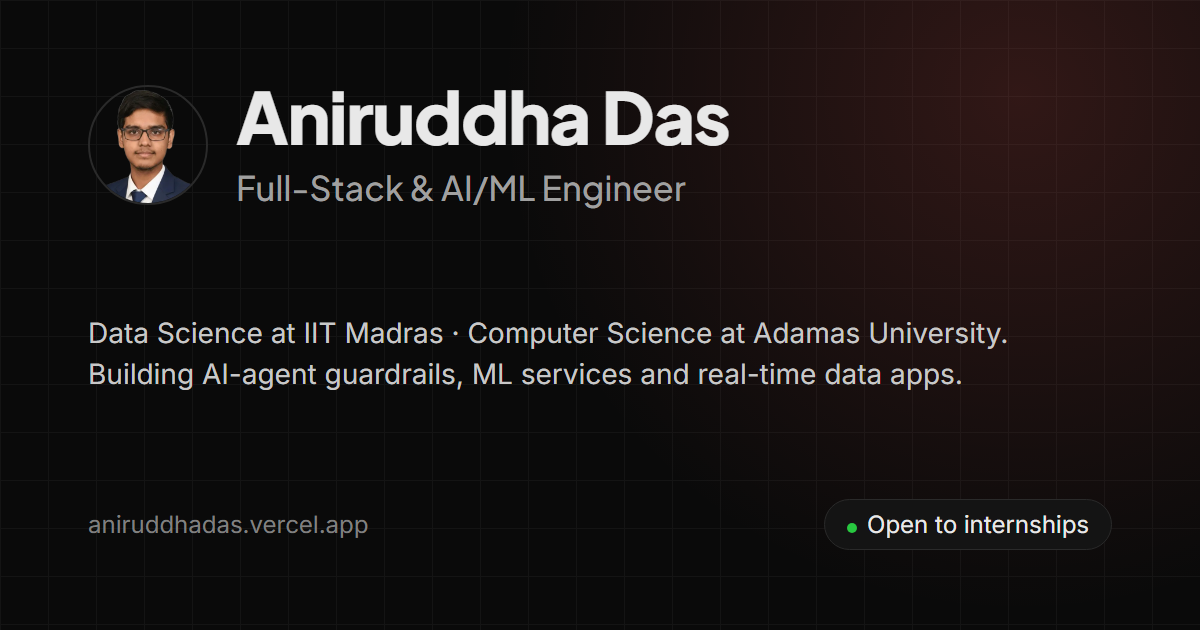
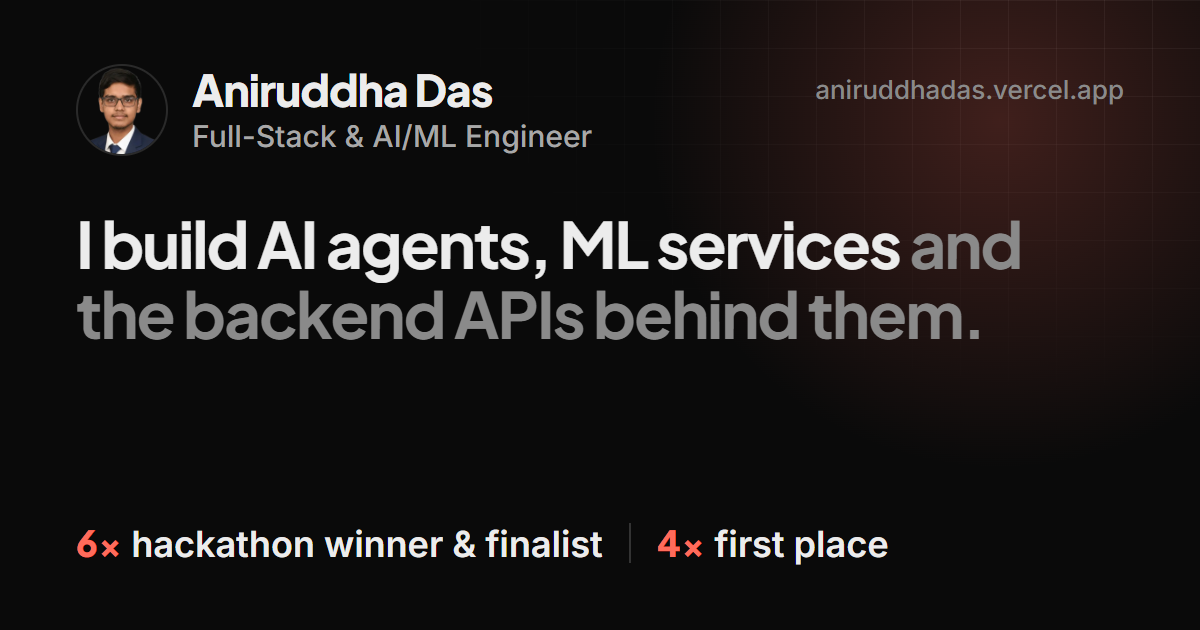
feat(seo): redesign link preview image and share text
- New og-image.png in the site's style: headline plus 6x hackathon winner & finalist and 4x first place, sized to stay readable at LinkedIn's ~520px card width
- og/twitter description and image alt text match the new positioning
- Version the image URL (?v=2) so LinkedIn and other platforms fetch the new image instead of a cached copy

diff --git a/index.html b/index.html
@@ -13,19 +13,19 @@
     />
     <meta name="keywords" content="Aniruddha Das, Full-Stack Engineer, AI, Machine Learning, React, Python, IIT Madras, Portfolio" />
     <meta property="og:title" content="Aniruddha Das | Full-Stack & AI/ML Engineer" />
-    <meta property="og:description" content="Dual-degree student at IIT Madras and Adamas University building end-to-end web and machine learning systems." />
+    <meta property="og:description" content="I build AI agents, ML services and the backend APIs behind them. 6× hackathon winner and finalist, 4× first place. IIT Madras and Adamas University." />
     <meta property="og:type" content="website" />
     <meta property="og:url" content="https://aniruddhadas.vercel.app/" />
     <meta property="og:site_name" content="Aniruddha Das" />
-    <meta property="og:image" content="https://aniruddhadas.vercel.app/og-image.png" />
+    <meta property="og:image" content="https://aniruddhadas.vercel.app/og-image.png?v=2" />
     <meta property="og:image:width" content="1200" />
     <meta property="og:image:height" content="630" />
-    <meta property="og:image:alt" content="Aniruddha Das, Full-Stack and AI/ML Engineer" />
+    <meta property="og:image:alt" content="Aniruddha Das, Full-Stack and AI/ML Engineer. I build AI agents, ML services and the backend APIs behind them. 6× hackathon winner and finalist, 4× first place." />
     <link rel="canonical" href="https://aniruddhadas.vercel.app/" />
     <meta name="twitter:card" content="summary_large_image" />
     <meta name="twitter:title" content="Aniruddha Das | Full-Stack & AI/ML Engineer" />
-    <meta name="twitter:description" content="Dual-degree student at IIT Madras and Adamas University building end-to-end web and machine learning systems." />
-    <meta name="twitter:image" content="https://aniruddhadas.vercel.app/og-image.png" />
+    <meta name="twitter:description" content="I build AI agents, ML services and the backend APIs behind them. 6× hackathon winner and finalist, 4× first place. IIT Madras and Adamas University." />
+    <meta name="twitter:image" content="https://aniruddhadas.vercel.app/og-image.png?v=2" />
     <title>Aniruddha Das | Full-Stack & AI/ML Engineer</title>
 
     <link rel="preconnect" href="https://fonts.googleapis.com" />
